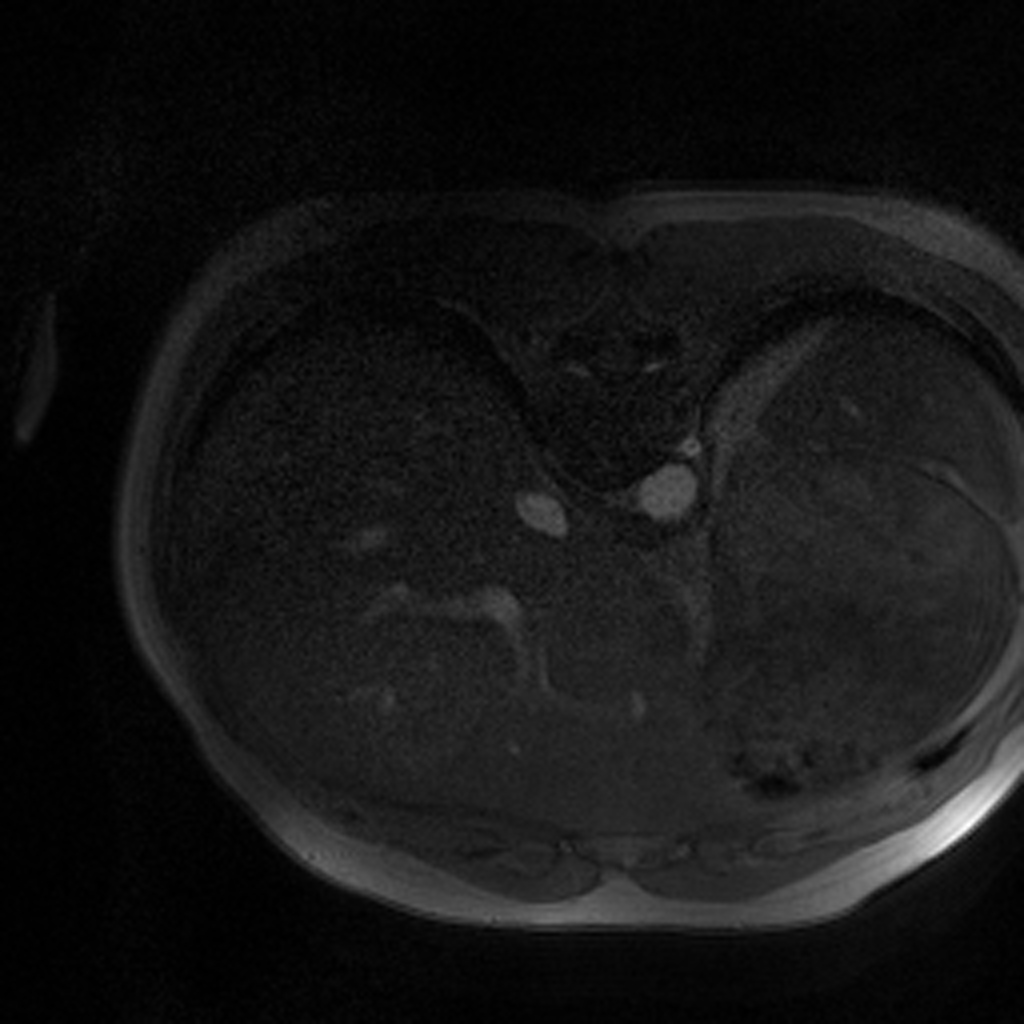
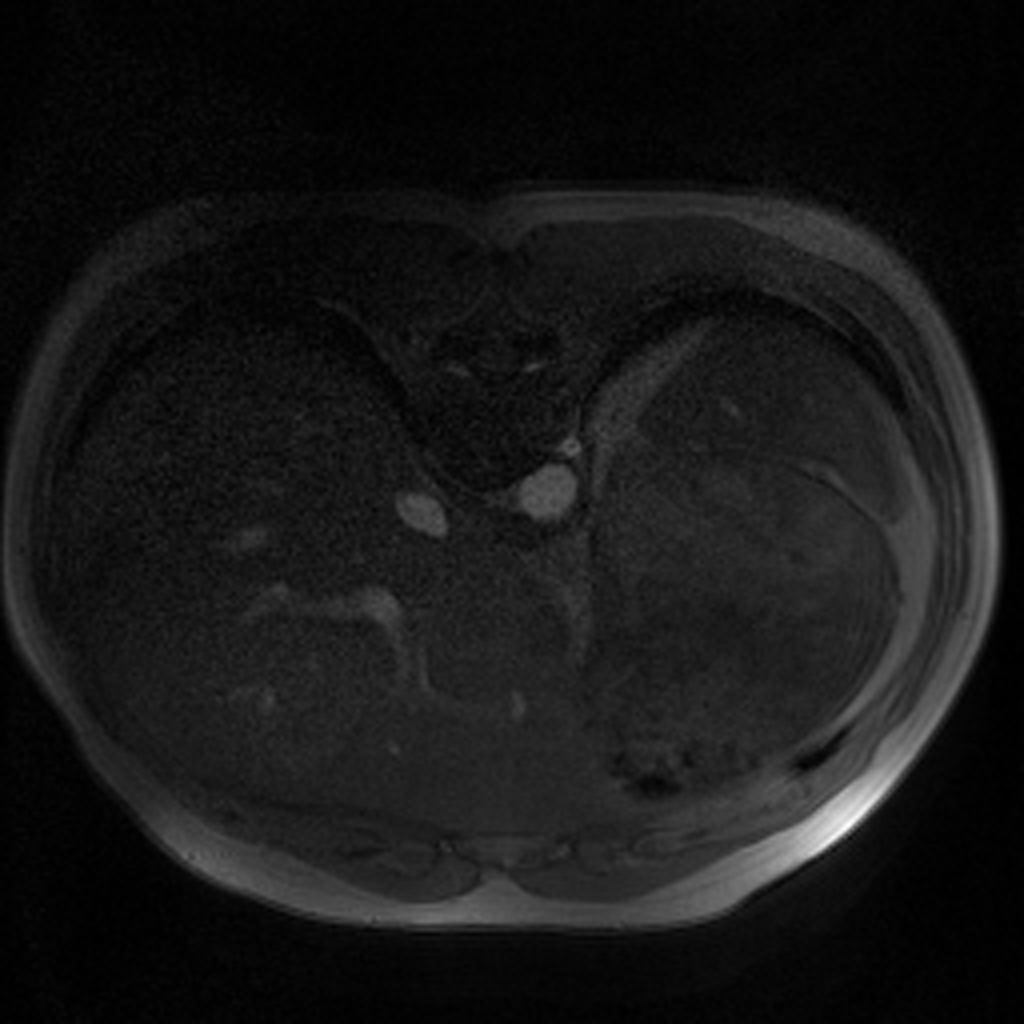
image not clipped, removed circshift

diff --git a/gfeRecon_test_average_python.py b/gfeRecon_test_average_python.py
@@ -3,8 +3,10 @@ import cv2
 from supportFiles import fermi, coil_maps, image_recombination, fixAspectRatio
 from scipy import interpolate
 from PIL import Image
-import matplotlib.pyplot as plt
-import scipy.misc
+import os
+import SimpleITK as sitk
+# import matplotlib.pyplot as plt
+# import scipy.misc
 
 # from matplotlib import pylab
 from pylab import *
@@ -186,8 +188,8 @@ for slice_count in range(0, number_of_slices):
         Temp = np.fft.ifft2(Temp)
         Temp = np.fft.ifftshift(Temp)
 
-        for i in range(len(Temp)):
-            Temp[i] = np.roll(Temp[i], [0, 30])
+        # for i in range(len(Temp)):
+        #     Temp[i] = np.roll(Temp[i], [0, 30])
 
         center_v = 0.5 * (Temp[int(yres / 2) - 1, int(xres / 2) - 1] + Temp[int(yres / 2) + 1, int(xres / 2) + 1])
         Temp[int(yres / 2), :] = 0.5 * (Temp[int(yres / 2), :] + Temp[int(yres / 2) - 2, :])
@@ -261,18 +263,16 @@ for slice_count in range(0, number_of_slices):
 
 im = Image.fromarray(corrected_image*255)
 im = im.convert('L')
-
+writer = sitk.ImageFileWriter()
 im.save('out.png')
-
 # WRITING DICOM FILE:
-for slice_count in range(0, number_of_slices):
-    filepath = 'C:\dicomImage\\'
+for slice_count in range(1, number_of_slices+1):
+    filepath = ''
     T = str(slice_count)
     filepath = filepath + T
     filepath = filepath + '.dcm'
     print(filepath)
-
-
+    writer.SetFileName(os.path.join(filepath))
 
     # eng.dicomwrite(uint16(round(output(:,:,slice_count))),str)
 
